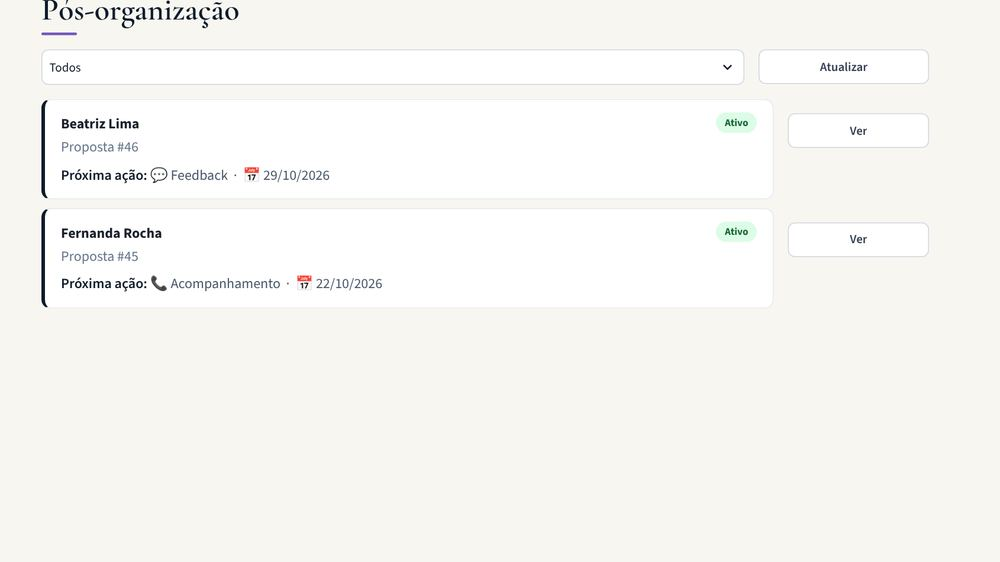
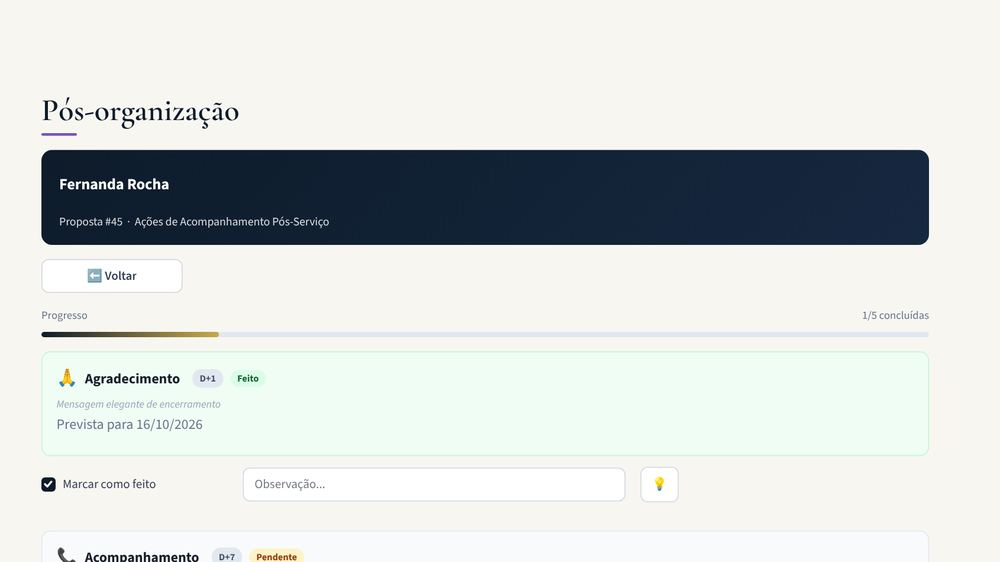
Tutorial rápido: passo de aniversário, MEI e Simples Nacional, e retorno da cliente
Claude-Session: https://claude.ai/code/session_01AZKqr2vzuwEfwycfR8umWz

diff --git a/utils/tour.py b/utils/tour.py
@@ -19,6 +19,9 @@ PASSOS = [
     ("02_agenda", "Agenda que junta tudo",
      "Marque diárias, visitas e orçamentos. Com valor, o compromisso entra sozinho em A receber. A agenda também "
      "mostra serviços, aniversários, retornos e vencimentos.", "Agenda"),
+    ("02b_aniversario", "Lembrete de aniversário",
+     "No dia do aniversário da cliente, o Início e a Agenda avisam, com o botão Dar parabéns: a mensagem já vai "
+     "pronta no WhatsApp.", "Dashboard"),
     ("03_clientes", "Clientes organizadas",
      "Nome e telefone já bastam. Origem e aniversário ajudam nos relatórios e nas mensagens. Dá para importar de planilha.",
      "Clientes"),
@@ -30,15 +33,16 @@ PASSOS = [
      "cada projeto.", "Precificacao"),
     ("06_vendas", "Venda de produtos",
      "Caixas, cabides e organizadores: a venda baixa o estoque, aceita parcelas e mostra o lucro.", "Vendas"),
-    ("07_pos", "Retornos que fidelizam",
-     "Depois do serviço, cinco retornos no dia certo, com a mensagem pronta para mandar pelo WhatsApp.",
+    ("07_pos", "Nunca mais esqueça de retornar uma cliente",
+     "Ao finalizar o serviço, o app agenda cinco retornos e lembra cada um no dia certo, com a mensagem pronta "
+     "para mandar pelo WhatsApp.",
      "PosOrganizacao"),
     ("08_financeiro", "Financeiro sem planilha",
      "Quanto entrou, quanto gastou e quanto sobrou, com as contas a receber e a pagar. Clique num cartão para "
      "marcar como recebido ou pago.", "Financeiro"),
-    ("09_mei", "MEI em dia",
-     "Na aba MEI: DAS mês a mês, limite do ano e prazo da declaração. Não é MEI? Troque o tipo de empresa ali. "
-     "O app não é contador: em caso de dúvida, procure um.", "Financeiro"),
+    ("09_mei", "MEI e Simples Nacional",
+     "Na aba MEI, escolha o tipo da sua empresa: MEI, Simples Nacional ou outro. Você acompanha o DAS de cada mês, o "
+     "limite do ano e o prazo da declaração. O app não é contador: em caso de dúvida, procure um.", "Financeiro"),
     ("10_relatorios", "Relatórios prontos",
      "Resultado do período, clientes, propostas e trabalhos, comparados com o período anterior, e o Excel "
      "formatado para o contador.", "Relatórios"),

diff --git a/pages/manual_sistema.py b/pages/manual_sistema.py
@@ -312,7 +312,7 @@ def gerar_manual_sistema(verificar_auth=True):
         ['<font color="%s">■</font> Plano e cobrança' % CORES_MODULO["Plano"], "Teste grátis, assinatura e pagamentos."],
     ], [130, 340])
     texto("Cada módulo tem uma cor, que aparece no ícone do menu, no filete sob o título da tela e neste manual.")
-    texto("<b>Tutorial rápido</b>: na primeira entrada, uma janela mostra em 11 passos o que cada parte do menu faz. "
+    texto("<b>Tutorial rápido</b>: na primeira entrada, uma janela mostra em 12 passos o que cada parte do menu faz. "
           "Para rever, clique em <b>Tutorial rápido</b>, no fim do menu.")
     e.append(Spacer(1, 6))
     e.append(_draw_botoes())
